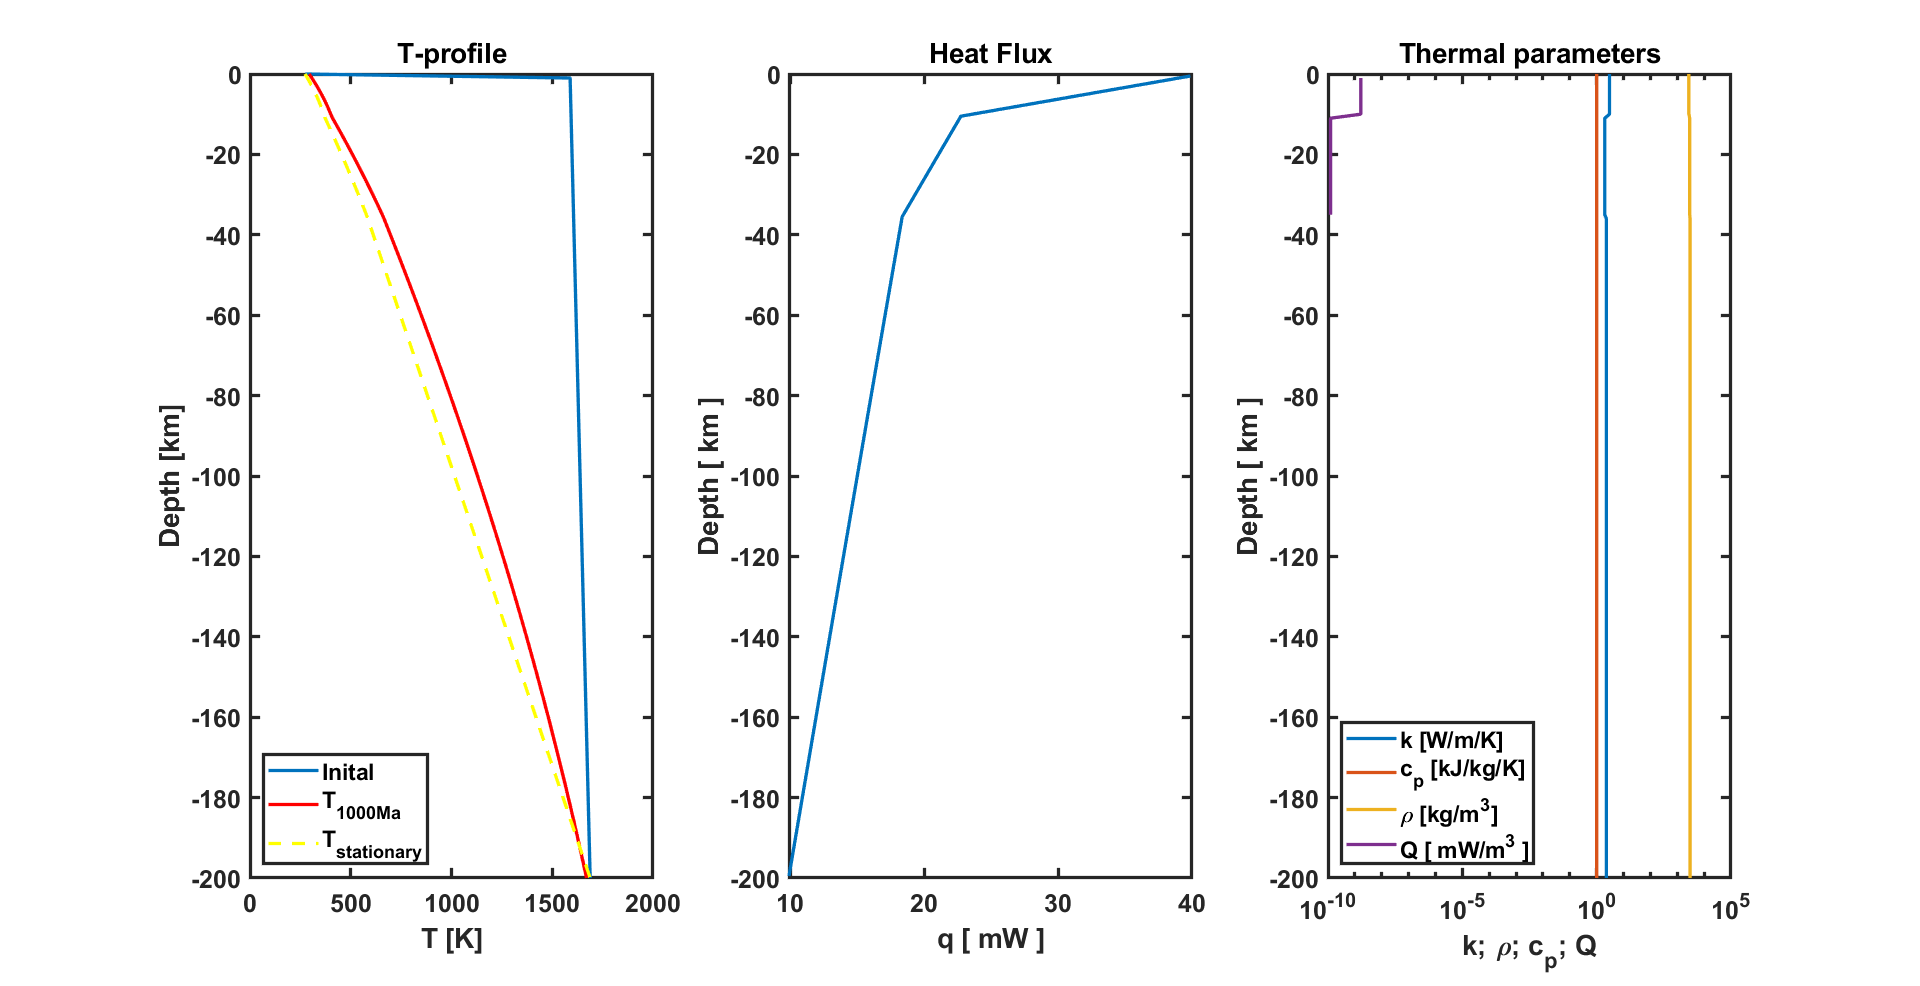
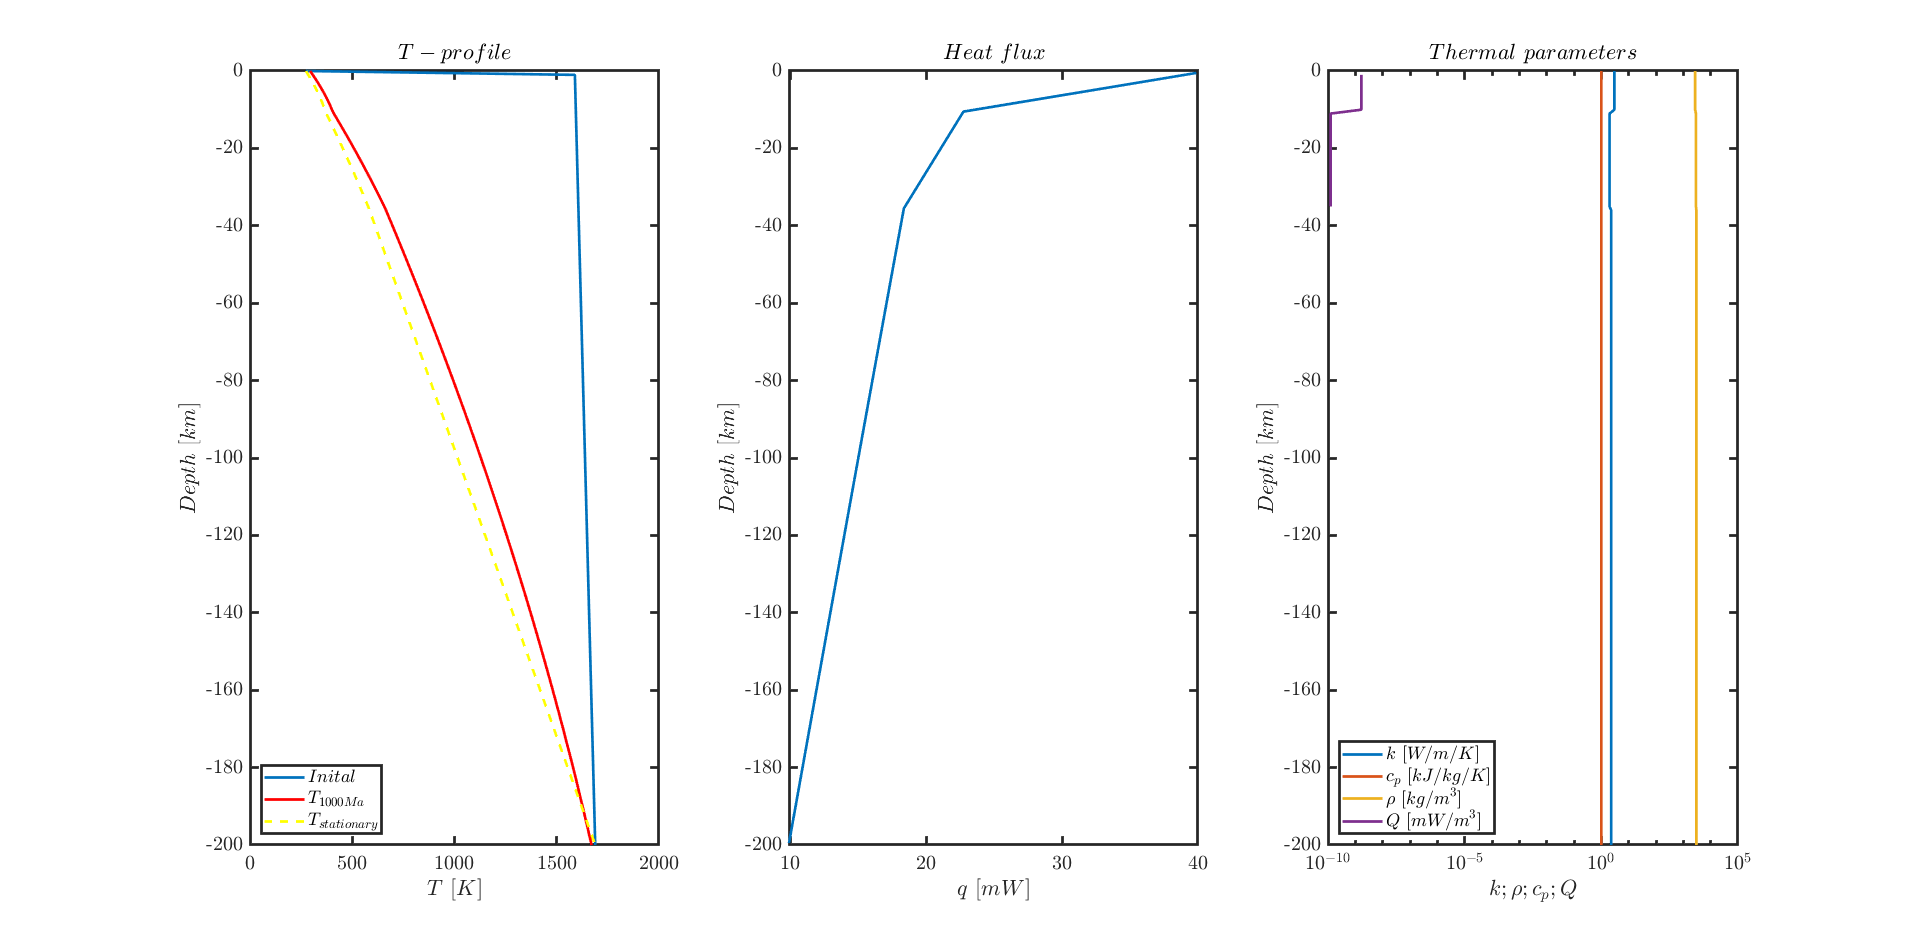
update

diff --git a/DiffusionProblem/ContinentalGeotherm_1D.m b/DiffusionProblem/ContinentalGeotherm_1D.m
@@ -84,9 +84,9 @@ if nargin==0
     T.T1    =   T.Tpot + T.dTadi.*abs(M.H./1e3);    % Bottom temperature [ K ]
     T.T     =   T.Tpot + abs(M.z/1e3)*T.dTadi;      % Initial T-profile [ K ]
     T.T(1)  =   T.T0;    
-    T.ubound    =   'flux';
+    T.ubound    =   'const';
     T.utbf      =   -0.0133;                % c     =   -k/q -> 50 mW/m^2
-    T.lbound    =   'flux';        
+    T.lbound    =   'const';        
     T.ltbf      =   -0.0043;                % c     =   -k/q -> 10 mW/m^2
     
     % Time stability criterion ------------------------------------------ %
@@ -104,8 +104,11 @@ if nargin==0
     clf
     subplot(1,3,1)
     plot(T.T,M.z./1e3,'LineWidth',2)
-    xlabel('T [K]'); ylabel('Depth [km]'); title('T-profile')
-    set(gca,'FontWeight','Bold','LineWidth',2,'FontSize',15)
+    xlabel('$$T [K]$$','Interpreter','latex')
+    ylabel('$$Depth [km]$$','Interpreter','latex')
+    title('$$T-profile$$','Interpreter','latex')
+    set(gca,'FontWeight','Bold','LineWidth',2,'FontSize',15,...
+        'TickLabelInterpreter','latex')
     % =================================================================== %
 else
     %% ================================================================== %
@@ -119,8 +122,11 @@ else
         clf
         subplot(1,3,1)
         plot(T.T,M.z./1e3,'LineWidth',2)
-        xlabel('T [K]'); ylabel('Depth [km]'); title('T-profile')
-        set(gca,'FontWeight','Bold','LineWidth',2,'FontSize',15)
+        xlabel('$$T [K]$$','Interpreter','latex')
+        ylabel('$$Depth [km]$$','Interpreter','latex')
+        title('$$T-profile$$','Interpreter','latex')
+        set(gca,'FontWeight','Bold','LineWidth',2,'FontSize',15,...
+            'TickLabelInterpreter','latex')
     end
 end
 %% Setup fields ========================================================= %
@@ -192,31 +198,40 @@ if plotparam
     hold on
     plot(T.T,M.z./1e3,'r-','LineWidth',2)
     plot(T2,M.z./1e3,'y--','LineWidth',2)
-    if nargin == 0
-%         plot(T3(:,1)+273.15,T3(:,2),'m-.','LineWidth',2)
-        legend('Inital',['T_{',num2str(t.age/1e6/t.tfac),'Ma}'],...
-            'T_{stationary}','T_{2D}','Location','SouthWest')
+    if nargin == 0 && (strcmp(T.ubound,'const') || strcmp(T.lbound,'const'))
+        plot(T3(:,1)+273.15,T3(:,2),'m-.','LineWidth',2)
+        legend('$$Inital$$',['$$T_{',num2str(t.age/1e6/t.tfac),'Ma}$$'],...
+            '$$T_{stationary}$$','$$T_{2D}$$','Location','SouthWest',...
+            'Interpreter','latex')
     else
-        legend('Inital',['T_{',num2str(t.age/1e6/t.tfac),'Ma}'],...
-            'T_{stationary}','Location','SouthWest')
+        legend('$$Inital$$',['$$T_{',num2str(t.age/1e6/t.tfac),'Ma}$$'],...
+            '$$T_{stationary}$$','Location','SouthWest',...
+            'Interpreter','latex')
     end
-    xlabel(' T [K] '); ylabel(' Depth [km] '); title('T-profile')
-    set(gca,'FontWeight','Bold','LineWidth',2,'FontSize',15)
+    xlabel('$$T\ [ K ]$$','Interpreter','latex')
+    ylabel('$$Depth\ [ km ]$$','Interpreter','latex')
+    set(gca,'FontWeight','Bold','LineWidth',2,'FontSize',15,...
+            'TickLabelInterpreter','latex')
     subplot(1,3,2)
     plot(T.q.*1e3,M.zc./1e3,'LineWidth',2)
-    xlabel('q [ mW ]'); ylabel('Depth [ km ]'); title('Heat Flux')
-    set(gca,'FontWeight','Bold','LineWidth',2,'FontSize',15)
+    xlabel('$$q\ [ mW ]$$','Interpreter','latex')
+    ylabel('$$Depth\ [ km ]$$','Interpreter','latex')
+    title('$$Heat\ flux$$','Interpreter','latex')
+    set(gca,'FontWeight','Bold','LineWidth',2,'FontSize',15,...
+            'TickLabelInterpreter','latex')
     subplot(1,3,3)
     hold on
     plot(Py.k,M.z./1e3,'LineWidth',2)
     plot(Py.cp./1e3,M.z./1e3,'LineWidth',2)
     plot(Py.rho,M.z./1e3,'LineWidth',2)
     plot(Py.H.*Py.rho./1e3,M.z./1e3,'LineWidth',2)
-    xlabel('k; \rho; c_{p}; Q'); ylabel('Depth [ km ]'); box on
-    title('Thermal parameters')
-    legend('k [W/m/K]','c_{p} [kJ/kg/K]','\rho [kg/m^3]','Q [ mW/m^3 ]',...
-        'Location','SouthWest')
-    set(gca,'xscale','log','FontWeight','Bold','LineWidth',2,'FontSize',15)
+    xlabel('$$k; \rho; c_{p}; Q$$','Interpreter','latex')
+    ylabel('$$Depth\ [ km ]$$','Interpreter','latex'); box on
+    title('$$Thermal\ parameters$$','Interpreter','latex')
+    legend('$$k\ [W/m/K]$$','$$c_{p}\ [kJ/kg/K]$$','$$\rho\ [kg/m^3]$$',...
+        '$$Q\ [ mW/m^3 ]$$','Location','SouthWest','Interpreter','latex')
+    set(gca,'xscale','log','FontWeight','Bold','LineWidth',2,...
+        'FontSize',15,'TickLabelInterpreter','latex')
 end
 % ======================================================================= %
 % keyboard

diff --git a/DiffusionProblem/OceanicGeotherm_1D.m b/DiffusionProblem/OceanicGeotherm_1D.m
@@ -69,15 +69,18 @@ if nargin==0
     t.tfac  =   (60*60*24*365.25);  % Seconds per year
     t.age   =   t.age.*1e6*t.tfac;  % Age in seconds
     % =================================================================== %
-    
+
     %% Plot Initial condition ------------------------------------------- %
     plotparam   =   1;
-    fig = figure;   
+    fig = figure;
     clf
     subplot(1,2,1)
     plot(T.T,M.z./1e3,'LineWidth',2)
-    xlabel('T [K]'); ylabel('Depth [km]'); title('T-profile')
-    set(gca,'FontWeight','Bold','LineWidth',2,'FontSize',15)
+    xlabel('$$T\ [K]$$','Interpreter','latex')
+    ylabel('$$Depth\ [km]$$','Interpreter','latex')
+    title('$$T-profile$$','Interpreter','latex')
+    set(gca,'FontWeight','Bold','LineWidth',2,'FontSize',15,...
+        'TickLabelInterpreter','latex')
     % =================================================================== %
 else
     %% =================================================================== %
@@ -92,8 +95,11 @@ else
         clf
         subplot(1,2,1)
         plot(T.T,M.z./1e3,'LineWidth',2)
-        xlabel('T [K]'); ylabel('Depth [km]'); title('T-profile')
-        set(gca,'FontWeight','Bold','LineWidth',2,'FontSize',15)
+        xlabel('$$T\ [K]$$','Interpreter','latex')
+        ylabel('$$Depth\ [km]$$','Interpreter','latex')
+        title('$$T-profile$$','Interpreter','latex')
+        set(gca,'FontWeight','Bold','LineWidth',2,'FontSize',15,...
+            'TickLabelInterpreter','latex')
     end
 end
 %% Setup Fields ========================================================= %
@@ -117,7 +123,7 @@ for i = 1:t.nit
     if i > 1
         t.time(i)   =   t.time(i-1) + t.dt;
     end
-%     [T]     =   SolveDiff1Dimplicit_vary(N,T,Py,t);
+    %     [T]     =   SolveDiff1Dimplicit_vary(N,T,Py,t);
     [T]     =   SolveDiff1Dexplicit_vary(N,T,Py,t);
 end
 % ======================================================================= %
@@ -143,7 +149,7 @@ end
 
 %% Plot profile if requested ============================================ %
 if plotparam
-%     if nargin==0 && strcmp(T.lbound,'const') && strcmp(T.ubound,'const')
+    %     if nargin==0 && strcmp(T.lbound,'const') && strcmp(T.ubound,'const')
     if strcmp(T.lbound,'const') && strcmp(T.ubound,'const')
         T.Tana      =   zeros(N.nz,1);
         T.Tana      =   T.Tini + ...
@@ -154,20 +160,24 @@ if plotparam
     subplot(1,2,1)
     hold on
     plot(T.T,M.z./1e3,'r-','LineWidth',2)
-%     if nargin==0 && strcmp(T.lbound,'const') && strcmp(T.ubound,'const')
+    %     if nargin==0 && strcmp(T.lbound,'const') && strcmp(T.ubound,'const')
     if strcmp(T.lbound,'const') && strcmp(T.ubound,'const')
         plot(T.Tana,M.z/1e3,'--','LineWidth',2)
-        legend('Initial',['T_{',num2str(t.age/1e6/t.tfac),'Ma}'],...
-            'T_{HSCM}','Location','SouthWest')
+        legend('$$Initial$$',['$$T_{',num2str(t.age/1e6/t.tfac),'Ma}$$'],...
+            '$$T_{HSCM}$$','Location','SouthWest','Interpreter','latex')
     else
-        legend('Initial',['T_{',num2str(t.age/1e6/t.tfac),'Ma}'],...
-            'Location','SouthWest')
+        legend('$$Initial$$',['$$T_{',num2str(t.age/1e6/t.tfac),'Ma}$$'],...
+            'Location','SouthWest','Interpreter','latex')
     end
-    xlabel('T [ K ]'); ylabel('Depth [ km ]')
+    xlabel('$$T\ [ K ]$$','Interpreter','latex')
+    ylabel('$$Depth\ [ km ]$$','Interpreter','latex')
     subplot(1,2,2)
     plot(T.q.*1e3,M.zc./1e3,'LineWidth',2)
-    xlabel('q [ mW ]'); ylabel('Depth [ km ]'); title('Heat flux')
-    set(gca,'FontWeight','Bold','LineWidth',2,'FontSize',15)
+    xlabel('$$q\ [ mW ]$$','Interpreter','latex')
+    ylabel('$$Depth\ [ km ]$$','Interpreter','latex')
+    title('$$Heat\ flux$$','Interpreter','latex')
+    set(gca,'FontWeight','Bold','LineWidth',2,'FontSize',15,...
+            'TickLabelInterpreter','latex')
 end
 % ======================================================================= %
 % keyboard

diff --git a/Continental_Geotherm/ContinentalGeotherm.m b/Continental_Geotherm/ContinentalGeotherm.m
@@ -18,9 +18,10 @@ Py.scale        =   'no';
 B.AdvMethod     =   'none';
 B.Aparam        =   'none';
 B.DiffMethod    =   'none';
+% B.EtaIni        =   'none';
 % ======================================================================= %
 %% ==================== Define viscosity conditions ===================== %
-Py.eparam       =   'none';
+% Py.eparam       =   'none';
 % ======================================================================= %
 %% ================== Define initial temperature anomaly ================ %
 B.Tini          =   'ContGeotherm';
@@ -90,7 +91,7 @@ B.bhf       =   0.01; %Py.Tbot + 273.15;% 0.04;     [ W/m^2 ]
 % ----------------------------------------------------------------------- %
 
 %% ---------------- Definition der Anfangsbedingungen ------------------- %
-[T,D,B,Ma,Py]   =   SetUpInitialConditions(T,D,Py,M,N,B);
+[T,D,B,M,Ma,Py] =   SetUpInitialConditions(T,D,Py,M,N,B);
 
 M.UCind         =   M.Z>=M.zUC;
 M.LCind         =   M.Z>=M.zLC&M.Z<M.zUC;
@@ -118,37 +119,47 @@ set(figure(1),'position',[55.4,125.8,1326.4,636.2]);
 [D.T]           =   SolvePoisson2Dvaryk(D.Q,N,B,D.k);
 % ======================================================================= %
 %% =========================== Plotting data ============================ %
-Pl.xlab     =   'x [ km ]';
-Pl.zlab     =   'z [ km ]';
+Pl.xlab     =   '$$x [ km ]$$';
+Pl.zlab     =   '$$z [ km ]$$';
 Pl.time     =   [];
 
 figure(1)
-subplot(2,3,1)
+ax1 = subplot(2,3,1);
 plotfield(D.Q,M.X./1e3,M.Z./1e3,Pl,'pcolor',...
-    '\itQ \rm\bf')
-subplot(2,3,2)
+    '$$Q$$')
+colormap(ax1,Pl.lapaz)
+ax2 = subplot(2,3,2);
 plotfield(D.rho,M.X./1e3,M.Z./1e3,Pl,'pcolor',...
-    '\it\rho \rm\bf')
-subplot(2,3,4)
+    '$$\rho$$')
+colormap(ax2,Pl.oslo)
+ax3 = subplot(2,3,4);
 plotfield(D.k,M.X./1e3,M.Z./1e3,Pl,'pcolor',...
-    '\itk \rm\bf')
-subplot(2,3,5)
+    '$$k$$')
+colormap(ax3,Pl.nuuk)
+ax4 = subplot(2,3,5);
 plotfield(D.T,M.X./1e3,M.Z./1e3,Pl,'pcolor',...
-    '\itT \rm\bf')
+    '$$T$$');
+colormap(ax4,flipud(Pl.lajolla))
 subplot(1,3,3)
 plot(D.T(:,N.nx1/2)-273.15 ,M.z./1e3,'LineWidth',2)
-xlabel('T [ C ]'); ylabel('Depth [km]')
-set(gca,'FontWeight','Bold','LineWidth',2)
+xlabel('$$T [ C ]$$','Interpreter','latex')
+ylabel('$$Depth [km]$$','Interpreter','latex')
+set(gca,'FontWeight','Bold','LineWidth',2,'FontSize',15,...
+    'TickLabelInterpreter','latex')
 
 figure(2) 
 subplot(3,1,1)
 plot(D.T(:,N.nx1/2)-273.15 ,M.z./1e3,'LineWidth',2)
-xlabel('T [ C ]'); ylabel('Depth [km]')
-set(gca,'FontWeight','Bold','LineWidth',2)
+xlabel('$$T [ C ]$$','Interpreter','latex')
+ylabel('$$Depth [km]$$','Interpreter','latex')
+set(gca,'FontWeight','Bold','LineWidth',2,'FontSize',15,...
+    'TickLabelInterpreter','latex')
 subplot(3,1,2)
 plot(D.Q(:,N.nx1/2)./D.rho(:,N.nx1/2),M.z./1e3,'LineWidth',2)
-xlabel('H [ W/kg ]'); ylabel('Depth [km]')
-set(gca,'FontWeight','Bold','LineWidth',2)
+xlabel('$$H [ W/kg ]$$','Interpreter','latex')
+ylabel('$$Depth [km]$$','Interpreter','latex')
+set(gca,'FontWeight','Bold','LineWidth',2,'FontSize',15,...
+    'TickLabelInterpreter','latex')
 q           = zeros(N.nz-1,1);
 for j=1:N.nz-1
     q(j) = -(D.k(j+1,N.nx1/2) + D.k(j,N.nx1/2))/2 * ...
@@ -158,8 +169,10 @@ q(1,1)      = -D.k(1,N.nx1/2)*(D.T(2,N.nx1/2)-D.T(1,N.nx1/2))/N.dz;
 q(N.nz,1)   = -D.k(N.nz,N.nx1/2)*(D.T(N.nz,N.nx1/2)-D.T(N.nz-1,N.nx1/2))/N.dz; 
 subplot(3,1,3)
 plot(q.*1e3,M.z./1e3,'LineWidth',2)
-xlabel('q [ mW/m^2 ]'); ylabel('Depth [km]')
-set(gca,'FontWeight','Bold','LineWidth',2)
+xlabel('$$q [ mW/m^2 ]$$','Interpreter','latex')
+ylabel('$$Depth [km]$$','Interpreter','latex')
+set(gca,'FontWeight','Bold','LineWidth',2,'FontSize',15,...
+    'TickLabelInterpreter','latex')
 % ======================================================================= %
 %% ============================= Save data ============================== %
 % DATA    = [D.T(:,N.nx1/2)-273.15,(M.z'./1e3)];

diff --git a/SetUp/plotfield.m b/SetUp/plotfield.m
@@ -48,13 +48,15 @@ switch lower(plparam2)
         hold off
 end
 
-xlabel(Pl.xlab)
-ylabel(Pl.zlab)
-title([titparam;{Pl.time}])
-colorbar; shading interp, lighting phong
+xlabel(Pl.xlab,'Interpreter','latex')
+ylabel(Pl.zlab,'Interpreter','latex')
+title([titparam;{Pl.time}],'Interpreter','latex')
+cb = colorbar; cb.TickLabelInterpreter = 'latex';
+shading interp, lighting phong
 axis normal; axis equal, axis tight; caxis([fmin fmax])
 axis([min(X(:)) max(X(:)) min(Z(:)) max(Z(:))])
-set(gca,'FontWeight','Bold')
+set(gca,'FontWeight','Bold','FontSize',15,...
+    'TickLabelInterpreter','latex')
 box on
 
 end

diff --git a/SetUp/SetUpFields.m b/SetUp/SetUpFields.m
@@ -68,7 +68,7 @@ if ~isempty(T)
     T.time      =   zeros(T.itmax,1);
 end
 
-if isfield(Py,'eparam')
+if isfield(Py,'eparam')    
     D.eta       =   zeros(N.nz,N.nx);
     
     % Interpolierte Parameter auf dem regulaeren Gitter
@@ -79,6 +79,9 @@ if isfield(Py,'eparam')
     ID.vzo      =   [];
     ID.indi     =   2:N.nz1;
     ID.indj     =   2:N.nx1;
+else
+    B.EtaIni    =   'none';
+    D.eta       =   [];
 end
 
 % Visualization stuff --------------------------------------------------- %
